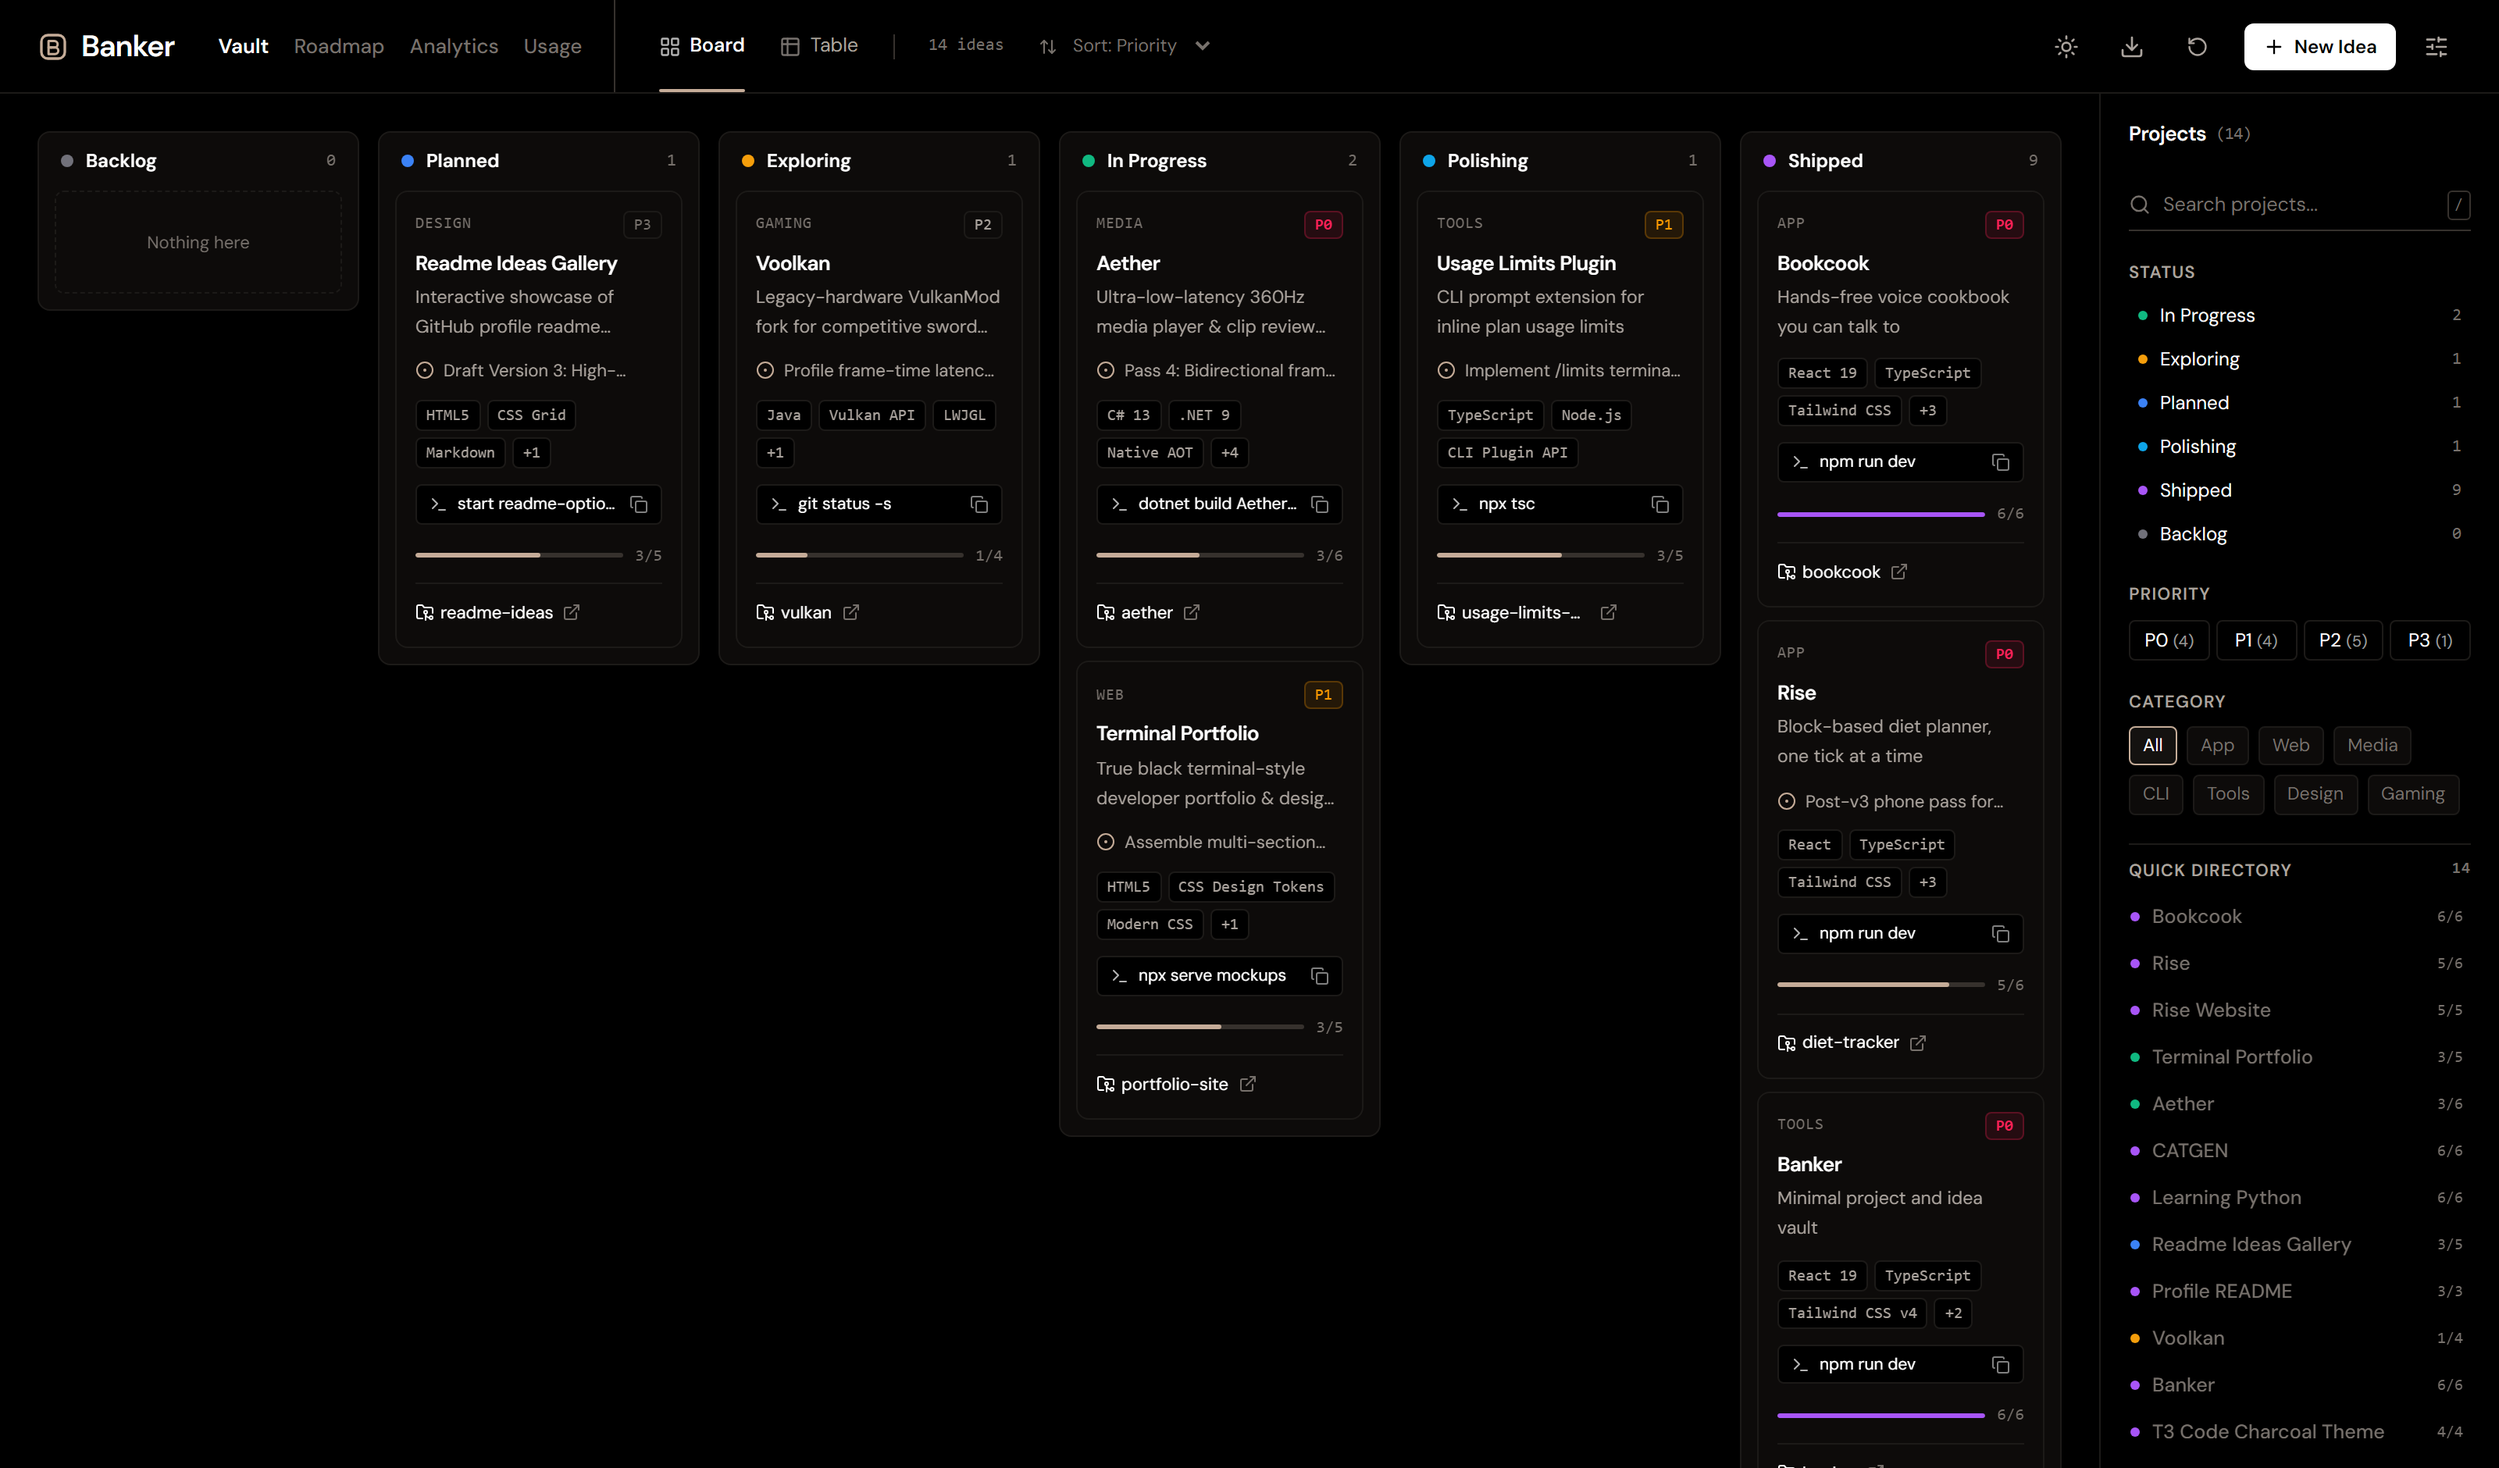
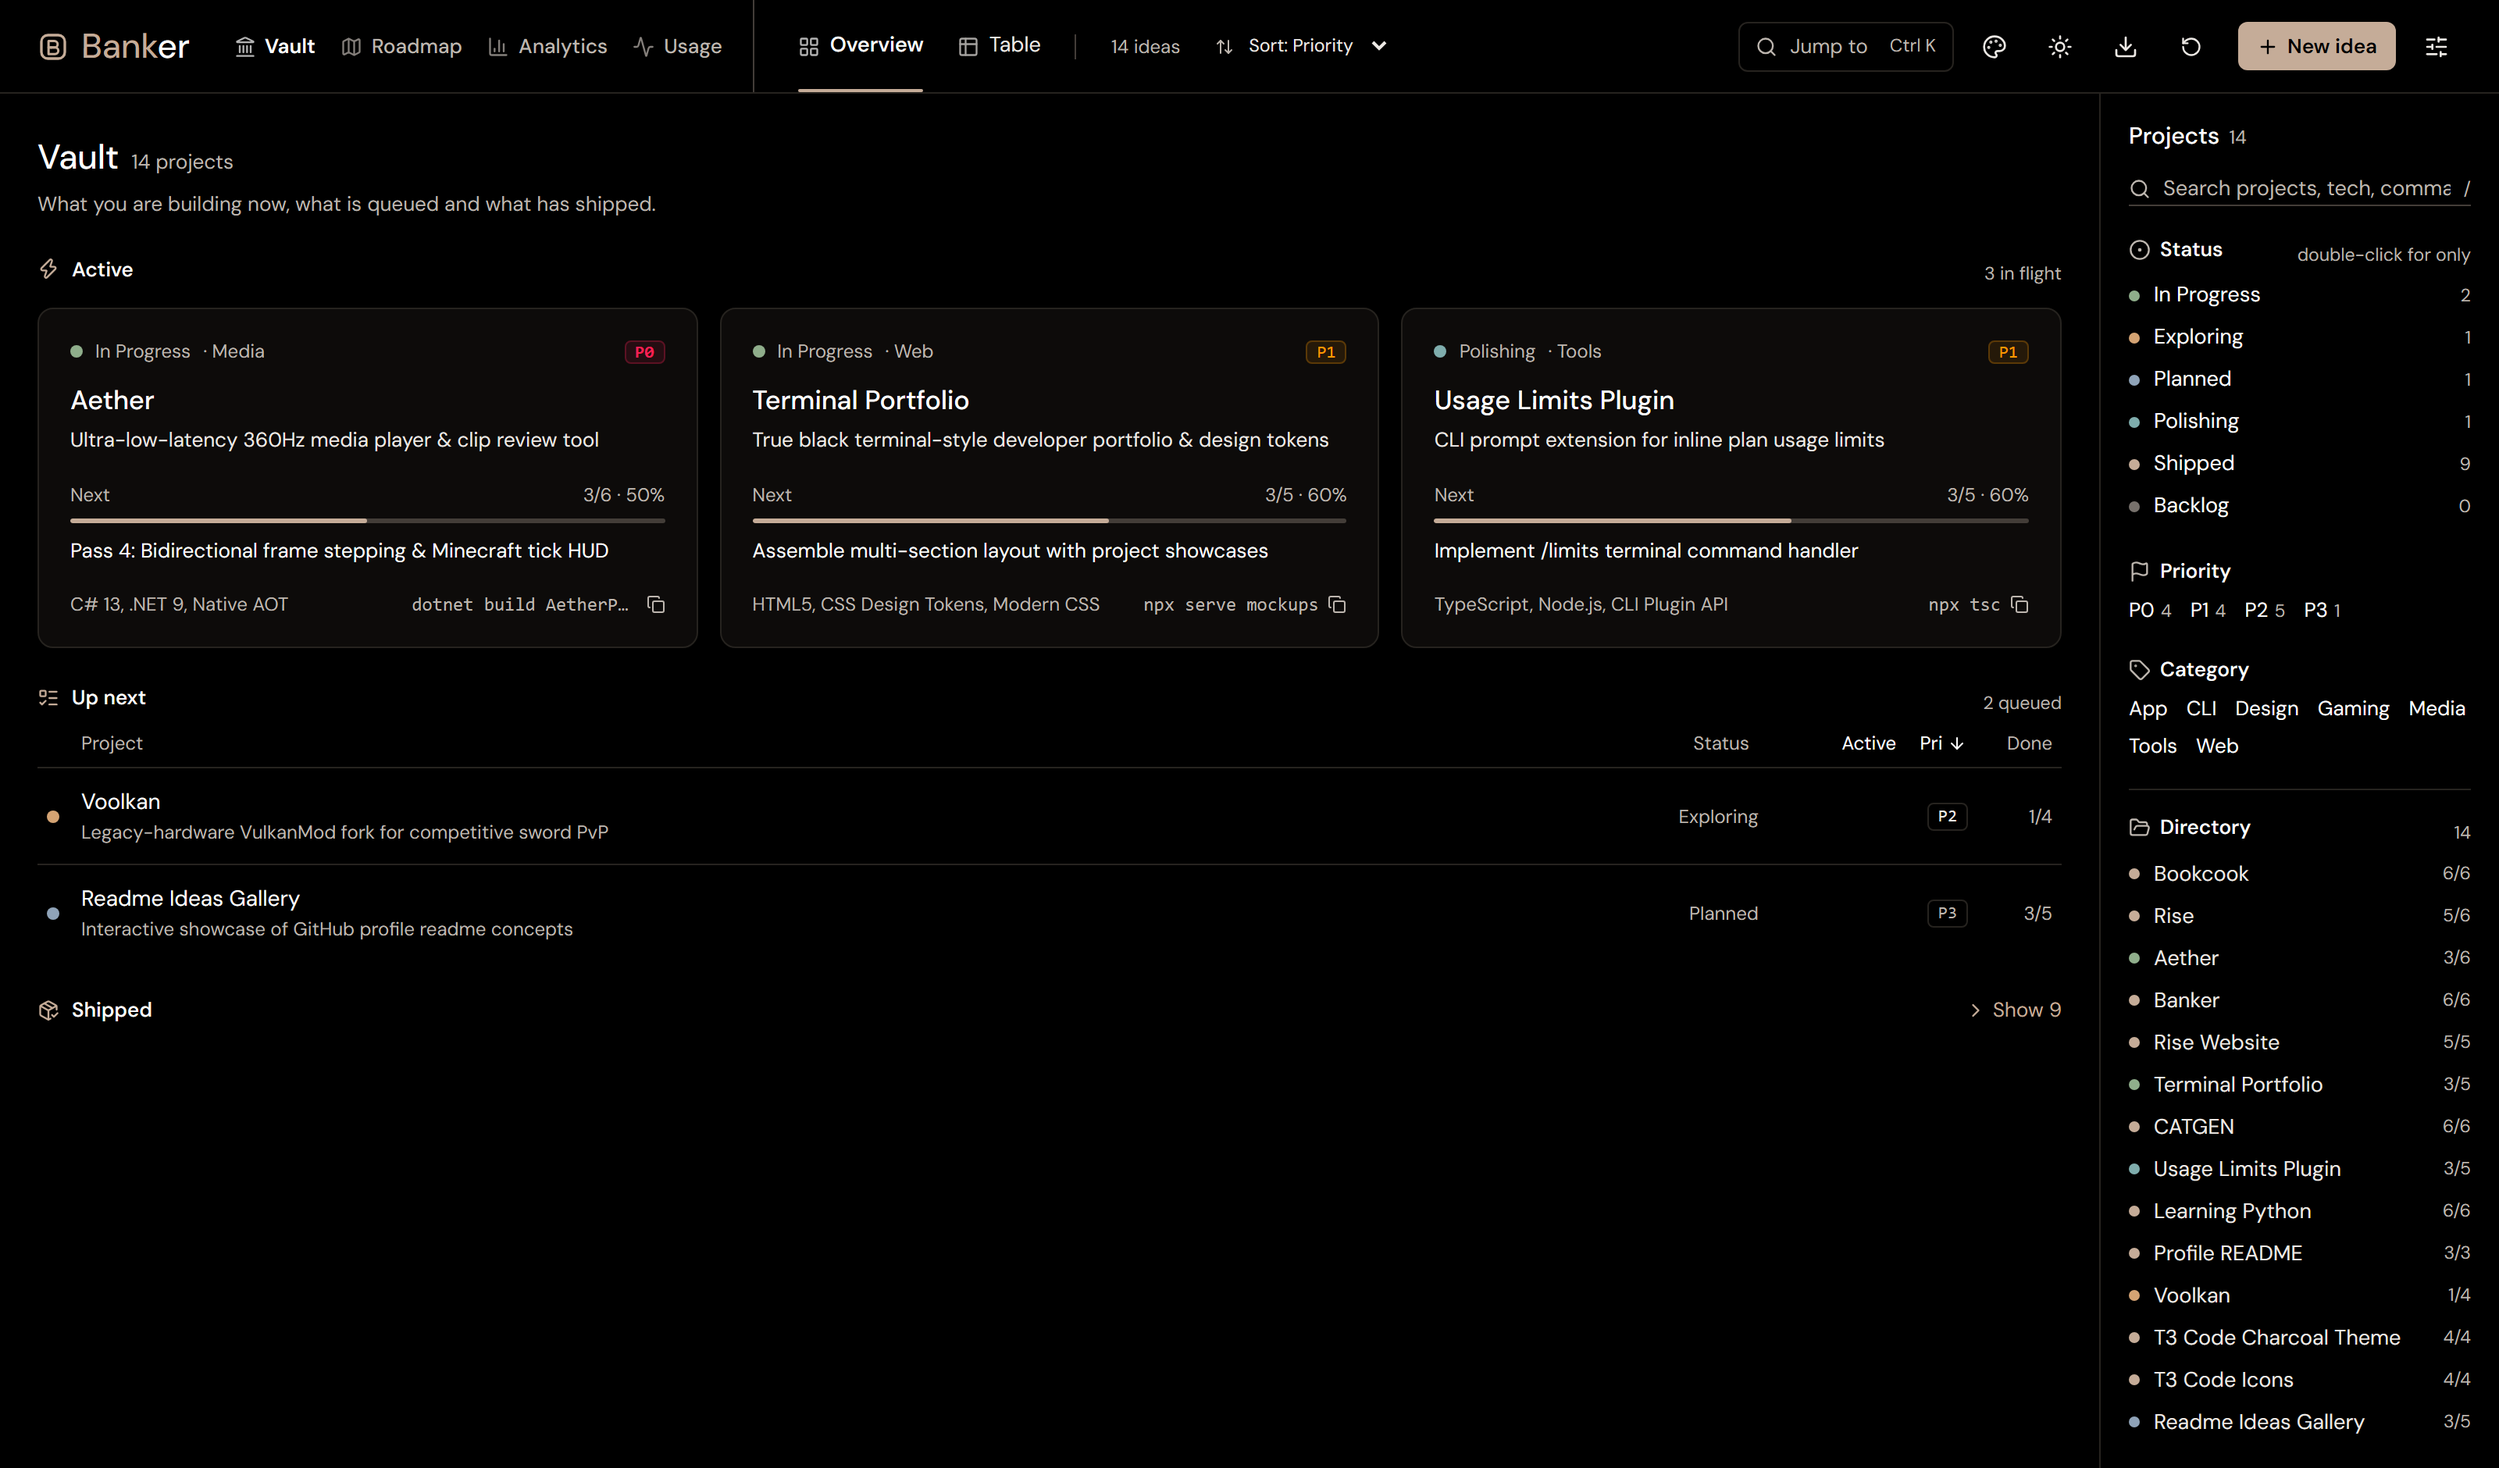
docs: refresh readme and screenshots for the overview, project page and themes

diff --git a/README.md b/README.md
@@ -15,7 +15,7 @@ A local-first developer workbench for tracking software tools, technical specifi
 </div>
 
 <a href="https://rvyyv-n.github.io/banker/">
-  <img src="screenshots/banker-oled-dark.png" alt="Banker Kanban Board in OLED Dark mode" width="100%" />
+  <img src="screenshots/banker-oled-dark.png" alt="Banker overview in dark mode" width="100%" />
 </a>
 
 ## Contents
@@ -35,9 +35,14 @@ Banker provides a single place to track software tools through their entire
 lifecycle: from initial spark and architectural spike through execution,
 polishing, and release.
 
-- **Fast stage progression.** Move projects through six distinct phases
-  (*Backlog*, *Planned*, *Exploring*, *In Progress*, *Polishing*, and
-  *Shipped*) with one-click navigation arrows.
+- **Six stages.** Move projects through *Backlog*, *Planned*, *Exploring*,
+  *In Progress*, *Polishing* and *Shipped* from the table or the project page.
+- **Git-aware cards.** Projects with a repo path show their branch, uncommitted
+  files, unpushed commits and how long since the last commit or coding session.
+  Read locally by the server, never sent anywhere.
+- **Themes.** Four accent themes in dark and light, switched from the palette
+  menu or the command palette. Text and status colours are contrast-tested.
+- **Sortable everywhere.** Click any column or section head to sort, again to flip.
 - **Checklists with live progress.** Every project tracks its milestones,
   updating progress meters in real time.
 - **Specs and decisions.** Keep problem statements, architectural rationale,
@@ -49,20 +54,20 @@ polishing, and release.
 - **Token usage across your tools.** A Usage page reads your local Claude Code
   and Antigravity logs and shows tokens, messages and estimated spend by model,
   harness and project.
-- **Built for phones.** Bottom navigation, a swipeable board, and card lists.
+- **Built for phones.** Bottom navigation and card lists.
 - **Zero data loss.** Everything syncs to browser storage instantly, with
   one-click JSON export for backups and cross-machine handoffs.
 
 ## Views
 
-### Board
+### Overview
 
-The default high-level view. Six stages organize active work across a fluid
-full-width grid with task completion meters, tech stack tags, next milestone
-previews, dev command shortcuts, and priority badges.
+The default view. Active work (in progress and polishing) is shown as cards with
+progress, the next unfinished milestone, tech stack, a copyable dev command and
+repo status. Queued projects follow as a sortable list, and shipped ones fold away.
 
 <a href="https://rvyyv-n.github.io/banker/">
-  <img src="screenshots/banker-oled-dark.png" alt="Banker Kanban board" width="100%" />
+  <img src="screenshots/banker-oled-dark.png" alt="Banker overview" width="100%" />
 </a>
 
 ### Table
@@ -75,14 +80,19 @@ in one click, and update project stages inline.
   <img src="screenshots/banker-table.png" alt="Banker Table view" width="100%" />
 </a>
 
-### Project drawer
+### Project drawer and page
 
 Clicking any card opens a slide-over panel with the full technical specification,
 interactive milestone checklists, linked workspaces, terminal commands, and an
-editable scratchpad.
+editable scratchpad. The expand button opens the same editor as a full page, with
+progress, repo details and activity beside it.
 
 <a href="https://rvyyv-n.github.io/banker/">
   <img src="screenshots/banker-drawer.png" alt="Banker project detail drawer" width="100%" />
+</a>
+
+<a href="https://rvyyv-n.github.io/banker/">
+  <img src="screenshots/banker-project-page.png" alt="Banker project page" width="100%" />
 </a>
 
 ### Analytics
@@ -110,7 +120,8 @@ the numbers come from.
 ### Light mode
 
 Crisp, paper-like neutral styling with stark typography. Press <kbd>T</kbd>
-anywhere or tap the sun/moon icon to switch between OLED Dark and Light mode.
+anywhere or tap the sun/moon icon to switch between OLED Dark and Light mode. The
+palette menu in the header changes the accent colour.
 
 <a href="https://rvyyv-n.github.io/banker/">
   <img src="screenshots/banker-light-mode.png" alt="Banker in crisp light mode" width="100%" />
@@ -118,9 +129,8 @@ anywhere or tap the sun/moon icon to switch between OLED Dark and Light mode.
 
 ### Mobile
 
-Built for one-handed use. A bottom tab bar switches sections, the board scrolls
-sideways one column at a time, the table becomes a list of cards, and filters open
-as a full-screen sheet. Tap targets are at least 40px.
+Built for one-handed use. A bottom tab bar switches sections, the table becomes a
+list of cards, and filters open as a full-screen sheet. Tap targets are at least 40px.
 
 <p align="center">
   <a href="https://rvyyv-n.github.io/banker/">
@@ -156,6 +166,7 @@ To run Banker on your local machine and point it to your repositories:
 3. **Managing your projects**:
    - **Through the UI**: Use the `+` button (or press <kbd>N</kbd>) to add your own local projects with their directory paths and dev commands.
    - **Pre-seeding via code**: Edit `src/data/initialData.ts` to define your own default catalog of repositories and initial milestones.
+   - **Repo status**: set a project's repo path (relative to a folder above this one, or a full path inside your code folders) to see its branch and activity. Set `BANKER_ROOT` to your code folders, separated by `;` on Windows, to change where paths resolve.
    - **Backups & Sync**: Use **Export** in the header to save a `banker-vault.json` snapshot of your project state anytime.
 
 ## Token usage
@@ -208,6 +219,9 @@ src/
   index.css               pure OLED dark (#000000) and paper light CSS tokens
   data/
     initialData.ts        initial project catalog and milestone seeds
+    status.ts             stages, priorities, progress helpers and status colours
+    accents.ts            accent theme list
+    repos.ts              fetches repo status and last activity for projects
     usage.ts              usage types, providers and sample data
   components/
     Header.tsx            Slopalytics-style navigation header with section & view tabs
@@ -215,7 +229,9 @@ src/
     BankerLogo.tsx        three stacked ledger bars mark
     MobileNav.tsx         bottom tab bar for phones
     UsageView.tsx         token usage by model, harness and project
-    KanbanBoard.tsx       six-column stage board with dev shortcuts & milestones
+    VaultOverview.tsx     active cards, sortable queue and shipped list
+    ProjectBody.tsx       editable project fields shared by the drawer and page
+    ProjectPage.tsx       full-page project view with repo and activity rail
     TableView.tsx         high-density developer data grid with 1-click command & path copy
     RoadmapView.tsx       four-phase ecosystem execution timeline
     AnalyticsView.tsx     Slopalytics-style velocity, distribution, and tech stack intelligence
@@ -223,6 +239,9 @@ src/
     NewProjectModal.tsx   fast idea capture modal
 screenshots/              retina edge-to-edge screenshots of views and mobile layout
 scripts/
+  repo-status.cjs         read-only git status and last activity for project folders
+  e2e.cjs                 end-to-end and contrast checks
+  host.cjs                background server for npm run host
   usage-collector.cjs     scans local Claude Code and Antigravity logs for token usage
 capture.cjs               automated headless Chrome screenshot capture script
 server.cjs                standalone local server for the built app and /usage.json
@@ -244,7 +263,7 @@ Open the address Vite prints (default `http://localhost:3333`).
 | `npm run dev`         | Start the Vite dev server with hot module reloading          |
 | `npm run build`       | Typecheck and build the production bundle to `dist/`         |
 | `npm run check`       | Lint, typecheck and build (what CI runs)                     |
-| `npm run test:e2e`    | Build, start the server on a free port, check every section on desktop and phone in headless Chrome, then stop |
+| `npm run test:e2e`    | Build, start the server on a free port, check every section on desktop and phone in headless Chrome, test theme contrast, then stop |
 | `npm run preview`     | Preview the production build locally with Vite               |
 | `npm run serve`       | Serve `dist/` and live usage on port 3333, reachable on your LAN |
 | `npm run host`        | Build and run the same server in the background; prints local and LAN URLs and returns |
@@ -262,8 +281,8 @@ system temp folder.
 | <kbd>N</kbd>       | Open the new project modal          |
 | <kbd>T</kbd>       | Toggle between OLED dark and light  |
 | <kbd>/</kbd>       | Focus the search filter             |
-| <kbd>1</kbd>       | Switch to the Kanban board          |
-| <kbd>2</kbd>       | Switch to the CRM table view        |
+| <kbd>1</kbd>       | Switch to the overview              |
+| <kbd>2</kbd>       | Switch to the table                 |
 | <kbd>3</kbd>       | Switch to the Roadmap view          |
 | <kbd>4</kbd>       | Switch to the Analytics view        |
 | <kbd>5</kbd>       | Switch to the Usage view            |
